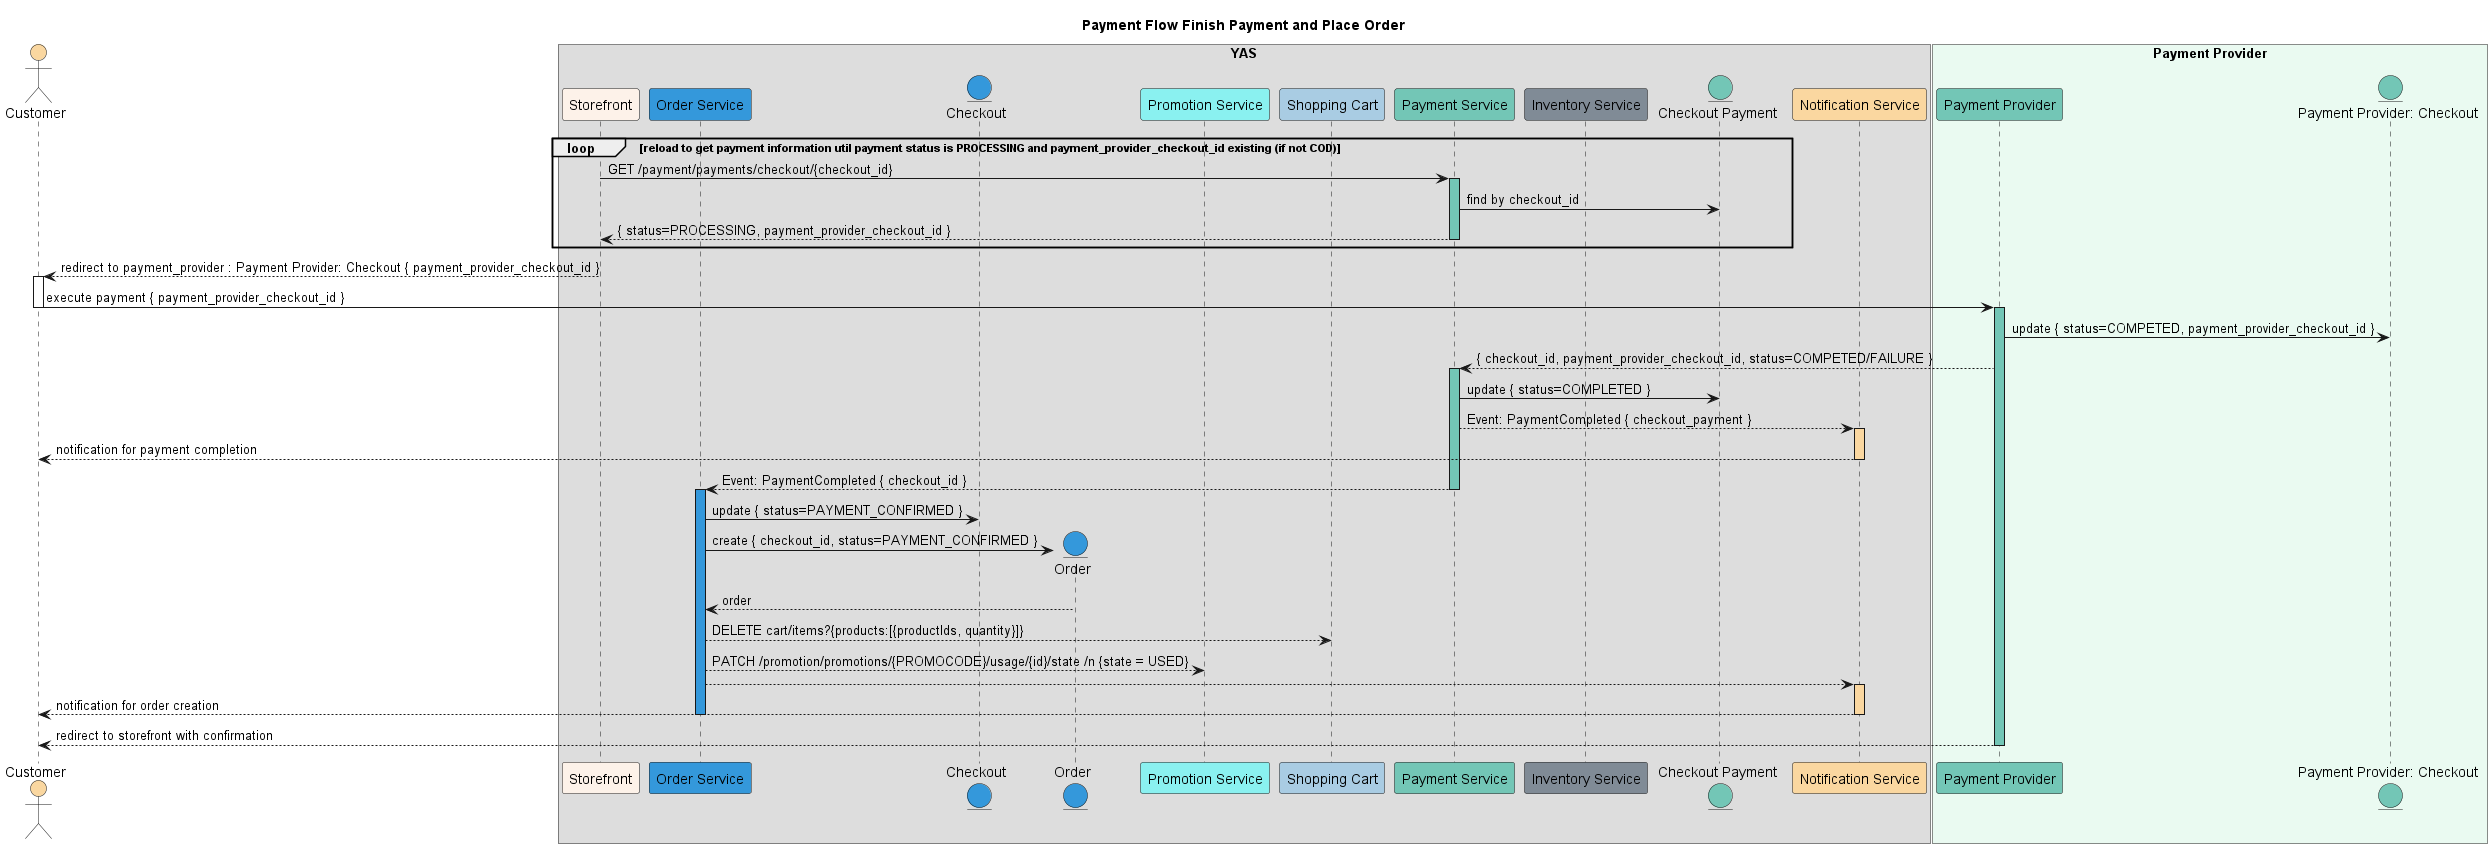
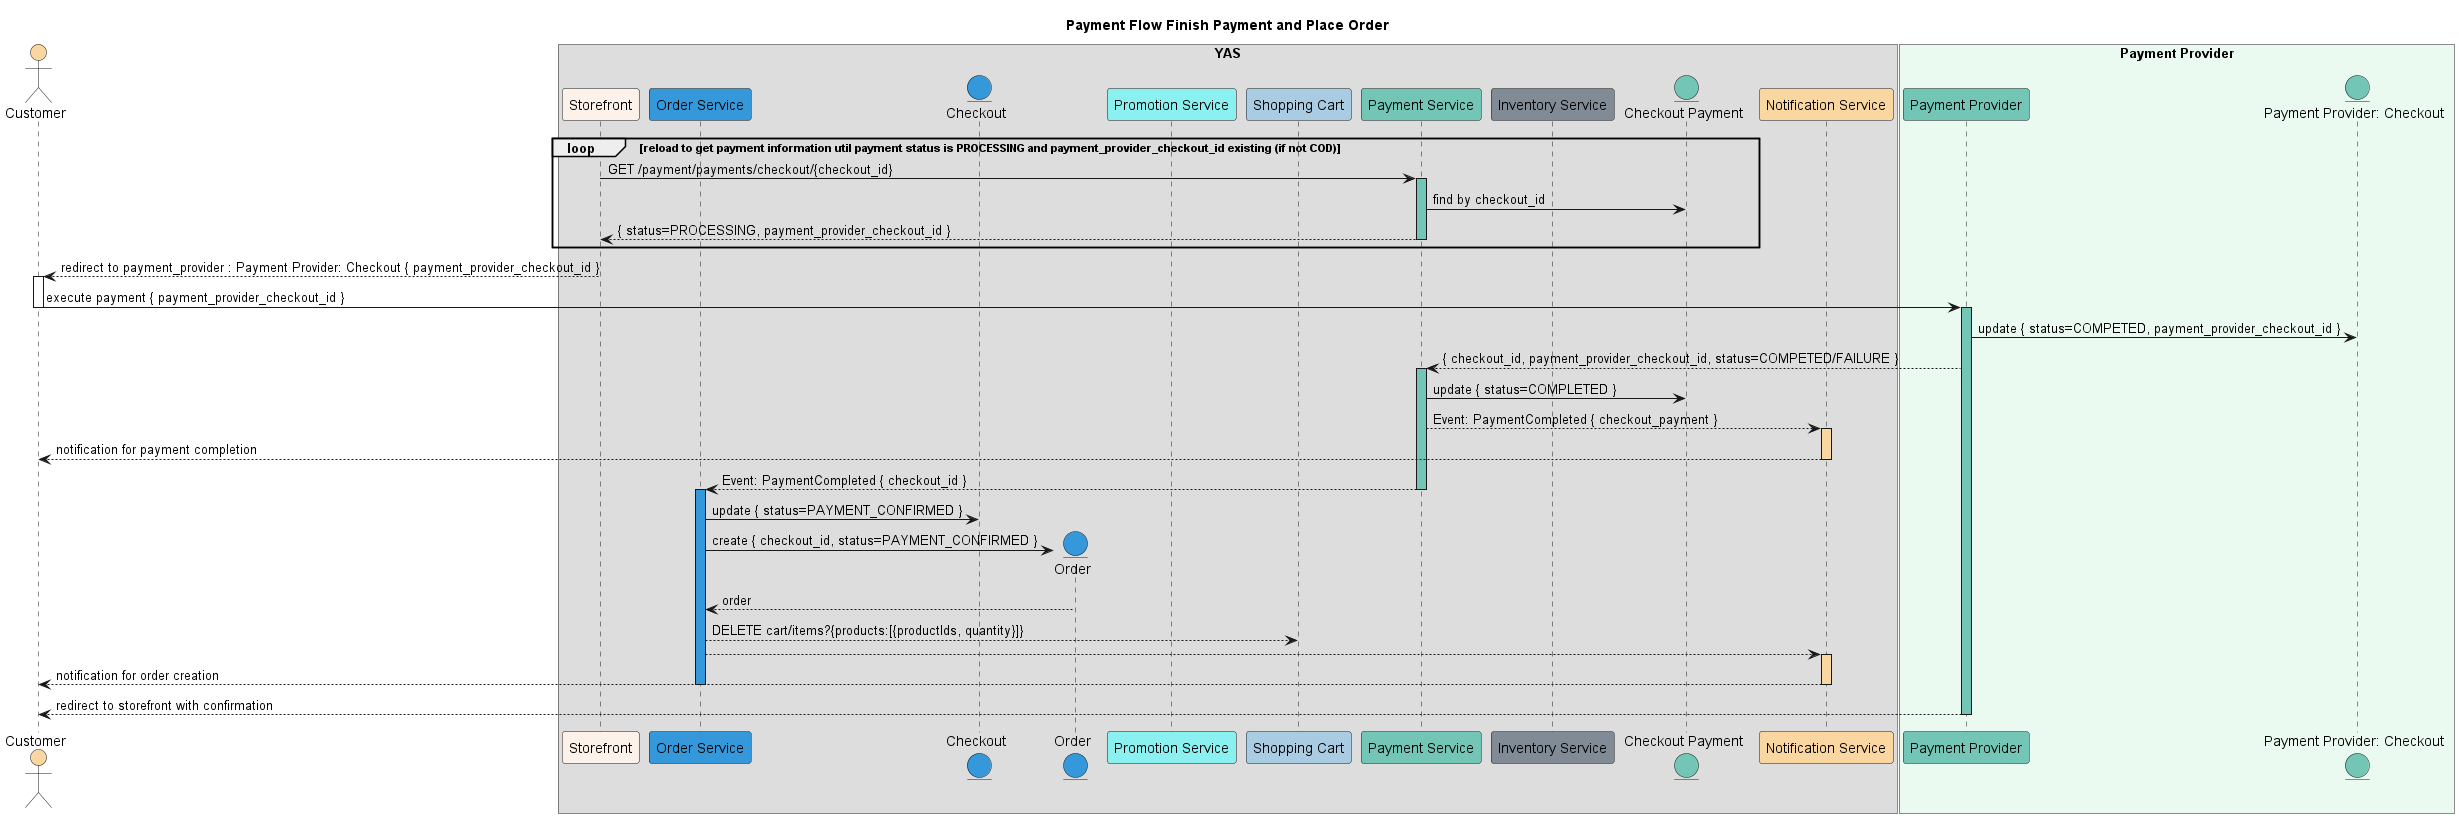
Update promocode usage flow, update README text

diff --git a/docs/design/order-flows/README.md b/docs/design/order-flows/README.md
@@ -15,13 +15,13 @@
 ### Checkout Lifecycle
 ![Checkout Lifecycle](./imgs/Checkout%20Lifecycle.png)
 
-When the user begins the checkout process, the `Shopping Cart` is sealed and saved as a snapshot in a `Checkout` object, allowing the user to focus on making the decision to place an order. The `Checkout` object will also contains information collected before the order is placed.
+When the user begins the checkout process, the `Checkout` object is created by copying all products the user wants to purchase with their desired quantities, allowing the user to focus on making the decision to place an order. The `Checkout` object will also contains information collected before the order is placed.
  - It will be created with the `CHECKED_OUT` status when the user start the checkout process by clicking the *"Proceed to checkout"* button on the *Cart page*. At this stage, the `Checkout` object will only contains the products' types and quantities that the customer wants to order.
  - The customer will then update the `Checkout` object with their desired shipping address, shipping provider, and payment method information. 
  - After all the information required has been fulfilled and reflects the customer desired order, the payment amount with detailed breakdown can be calculated and review by the customer after which they can confirm, and start the payment process. This will change that state of the `Checkout` object to `PAYMENT_PROCESSING`.
  - After the payment has been processed and confirmed by the `payment-confirmed` action, the `Checkout` object will be changed to the `PAYMENT_CONFIRMED` state. At this stage, the system can start the `create-order` process, which will place the necessary block on the inventory, and create a new order for the customer.
  - In case some products in the `Checkout` object is out-of-stock or the `process-payment` action encounters an error, the `Checkout` object's status will be revert back to `CHECKED_OUT`. The last encountered error will also be attached to the `Checkout` object
- - After an order has been placed, the `Checkout`    has served its purpose, thus its state will be changed to `FULFILLED`. 
+ - After an order has been placed, the `Checkout` has served its purpose, thus its state will be changed to `FULFILLED`. 
 
 ### Checkout flow
 
@@ -30,6 +30,7 @@ The Checkout flow happens between when the user begin the checkout process and t
 - User start this process by navigating to the *Cart page* and click on *"Proceed to check out"* after choosing all the desired items and their amount. The system will start the checkout process by creating a `Checkout` object by copying the user's current cart and then clear the cart. 
 - The system then prompt the user for additional information that is necessary for the order placing process. This includes showing the customer available shipping provider, payment provider, their address saved by the system, as well as a form for customer to input a new address should they need to.
 - The user will then input the requested information into the system and continually update their `Checkout` object. After all the necessary information for the object has been inputed, an event to calculate total order amount, delivery fee, and tax amount will be triggered and the result will be displayed to the customer.
+- The user can also input a promocode into the checkout, which will trigger a validation event to validate the code. If the promocode is valid, it will be added to the `Checkout` object and trigger a CDC Event to recalculate the payment amount and return the new total to `Storefront` to be displayed.
 - The user can iteratively change their order information at this step. After each change, the order amount, delivery fee, and tax amount will be recalculated and displayed to them.  
 - After the customer is satisfied with all their information, they will confirm by clicking *"Proceed to payment"* at which point the system will start the payment process for the order.
 
@@ -42,9 +43,10 @@ The payment flow is the point at which the customer confirm their payment for th
 ![Payment Flow Sub 1](./imgs/Payment%20Flow%20Sub%201.png)
 
 - The first phase's goal is to create an internal `PaymentCheckout` object that will keep track of the payment status for the order. This phase includes the following steps:
-  - The Customer will start this phase by clicking *"Proceed to payment"* on the *Checkout page*. This will send a request to start the payment process to the `Order Service`.
+  - The Customer will start this phase by clicking *"Proceed to payment"* on the *Checkout page*. This will send a request to start the payment process to the `Order Service`. 
+  - The `Order Service` will then send a request to `Promotion Service` to create a usage of the promocode in the checkout (if exists). If this step fail then the payment flow will fail and the `Checkout` object will go back to the previous stage. The promocode will also be automatically removed from the `Checkout` object.
   - The `Order Service` will then request the `Inventory service` to place a reservation on the products requested in the `Checkout` object.
-  - In case the reservation process fail due to some products being out of stock, the `Inventory Service` will return the error to the `Order Service` which will forward it to `Storefront`. The `Storefront` will then notified the Customer and stop the payment process.
+  - In case the reservation process fail due to some products being out of stock, the `Inventory Service` will return the error to the `Order Service` which will forward it to `Storefront`. The `Storefront` will then notified the Customer and stop the payment process. If the promocode was applied previously, it will also be rollbacked by an asynchronous event.
   - If the reservation process succeed, the `Order Service` will trigger the creation of a `CheckoutPayment` object which will be managed by the `Payment Service`. Information about this object will be send back to the `Storefront` page which marks the end of phase 1. At the end of this phase, a `CheckoutPayment` object for the order must have been created.
   
 ![Payment Flow Sub 2](./imgs/Payment%20Flow%20Sub%202.png)
@@ -59,7 +61,7 @@ The payment flow is the point at which the customer confirm their payment for th
   - After receiving the `CheckoutPayment` object id from phase 1, the `Storefront` page will periodically query the `Payment Service` for the status of the `CheckoutPayment` object. This will be repeated until the `CheckoutPayment`'s status changed to `PROCESSING`.
   - The `Storefront` page will then navigate the user to the external payment provider payment page using the provided external payment provider's `Checkout` object's id. The customer can execute the payment on the external provider page.
   - After the payment has been processed by the external provider, they will navigate the customer back to the *Payment confirmation page* of our `Storefront`. 
-  - At the same time, the external payment provider will also notify our `Backend` through a webhook registered to them. This webhook will then trigger the `Payment Completed` chain in our system, change the `CheckoutPayment` object status to `PAYMENT_COMPLETED`, notify the customer and create an `Order` object with the `PAYMENT_CONFIRMED` status in our system.
+  - At the same time, the external payment provider will also notify our `Backend` through a webhook registered to them. This webhook will then trigger the `Payment Completed` chain in our system, change the `CheckoutPayment` object status to `PAYMENT_COMPLETED`, notify the customer and create an `Order` object with the `PAYMENT_CONFIRMED` status in our system. After the `Order` is created, the items that has been placed in the order is then removed from the `Shopping Cart`.
   - After this phase, an `Order` object must be created in our system. This object will be the starting point for the order fulfilment cycle.
 - After the `Order` object has been created, we will send a notification to the customer, then the `Storefront` can request and display the `Order` info to Customer.
 
